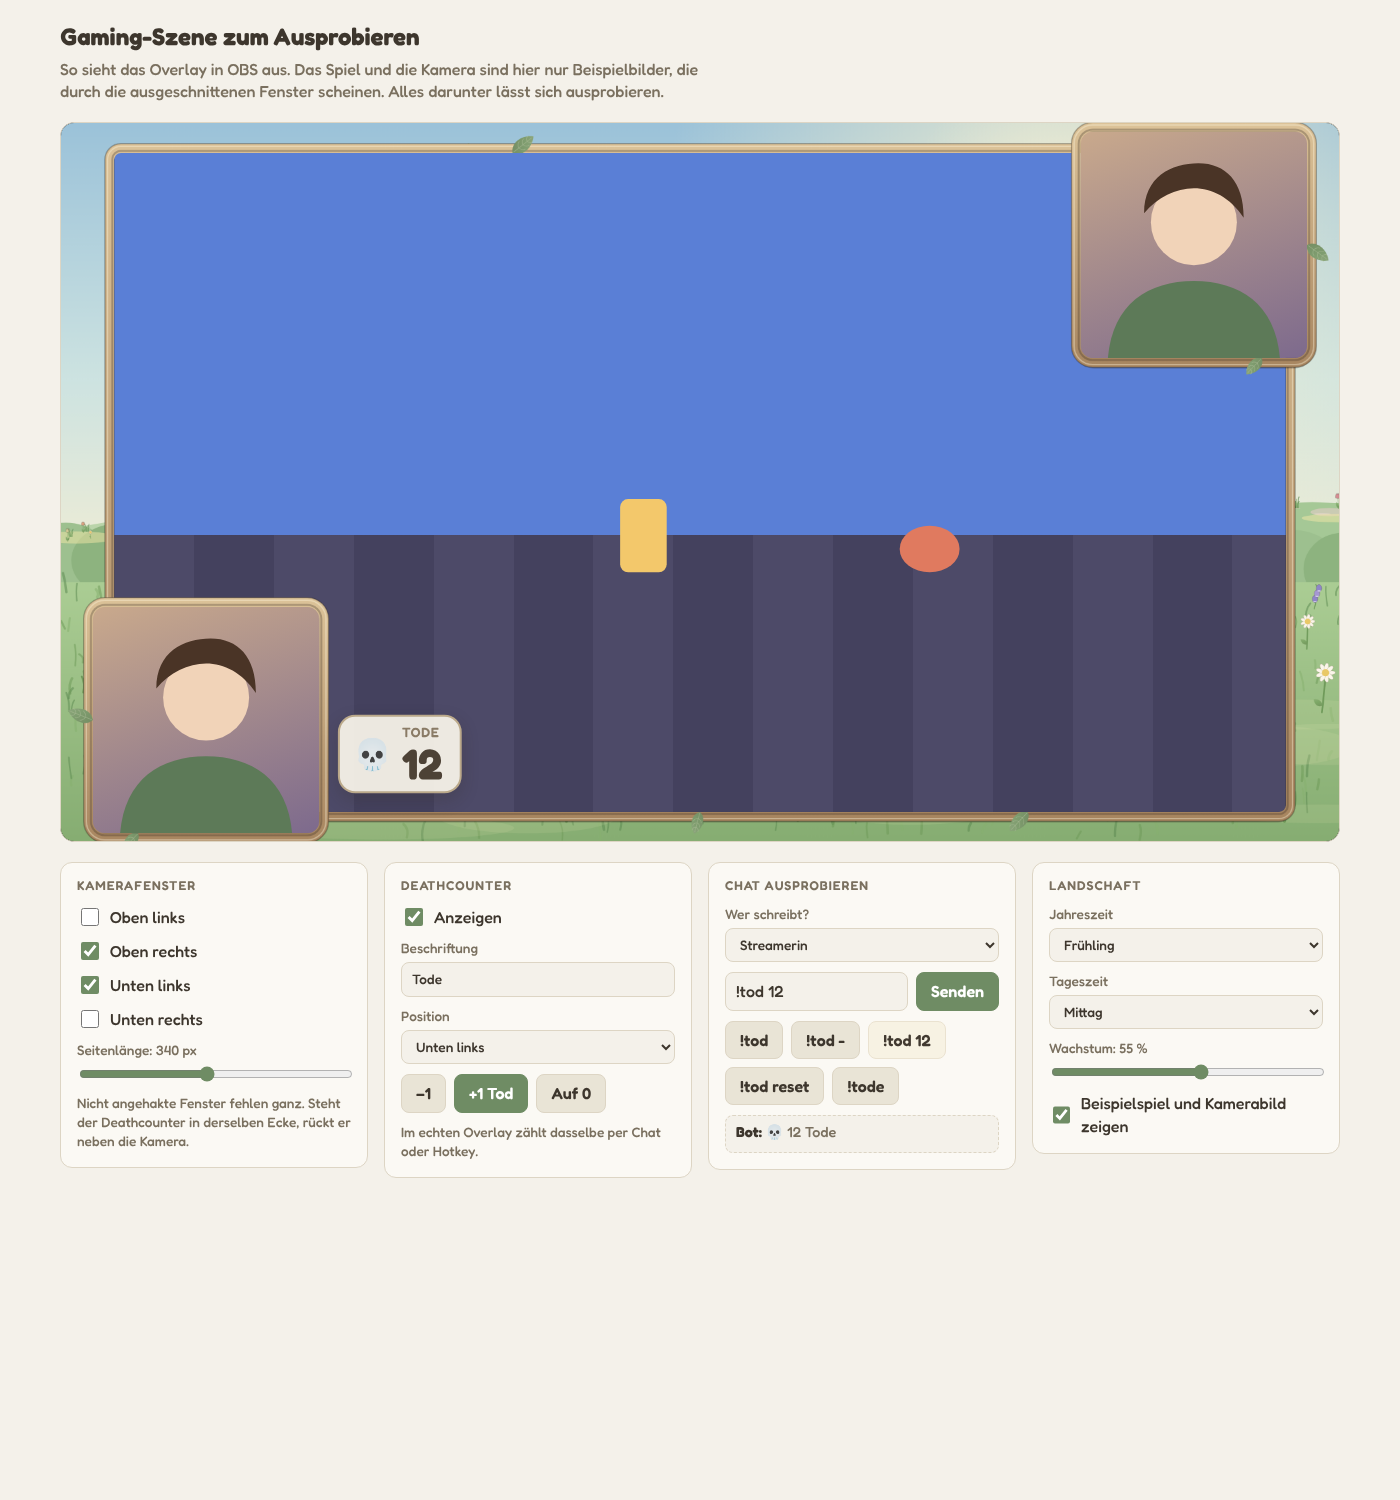
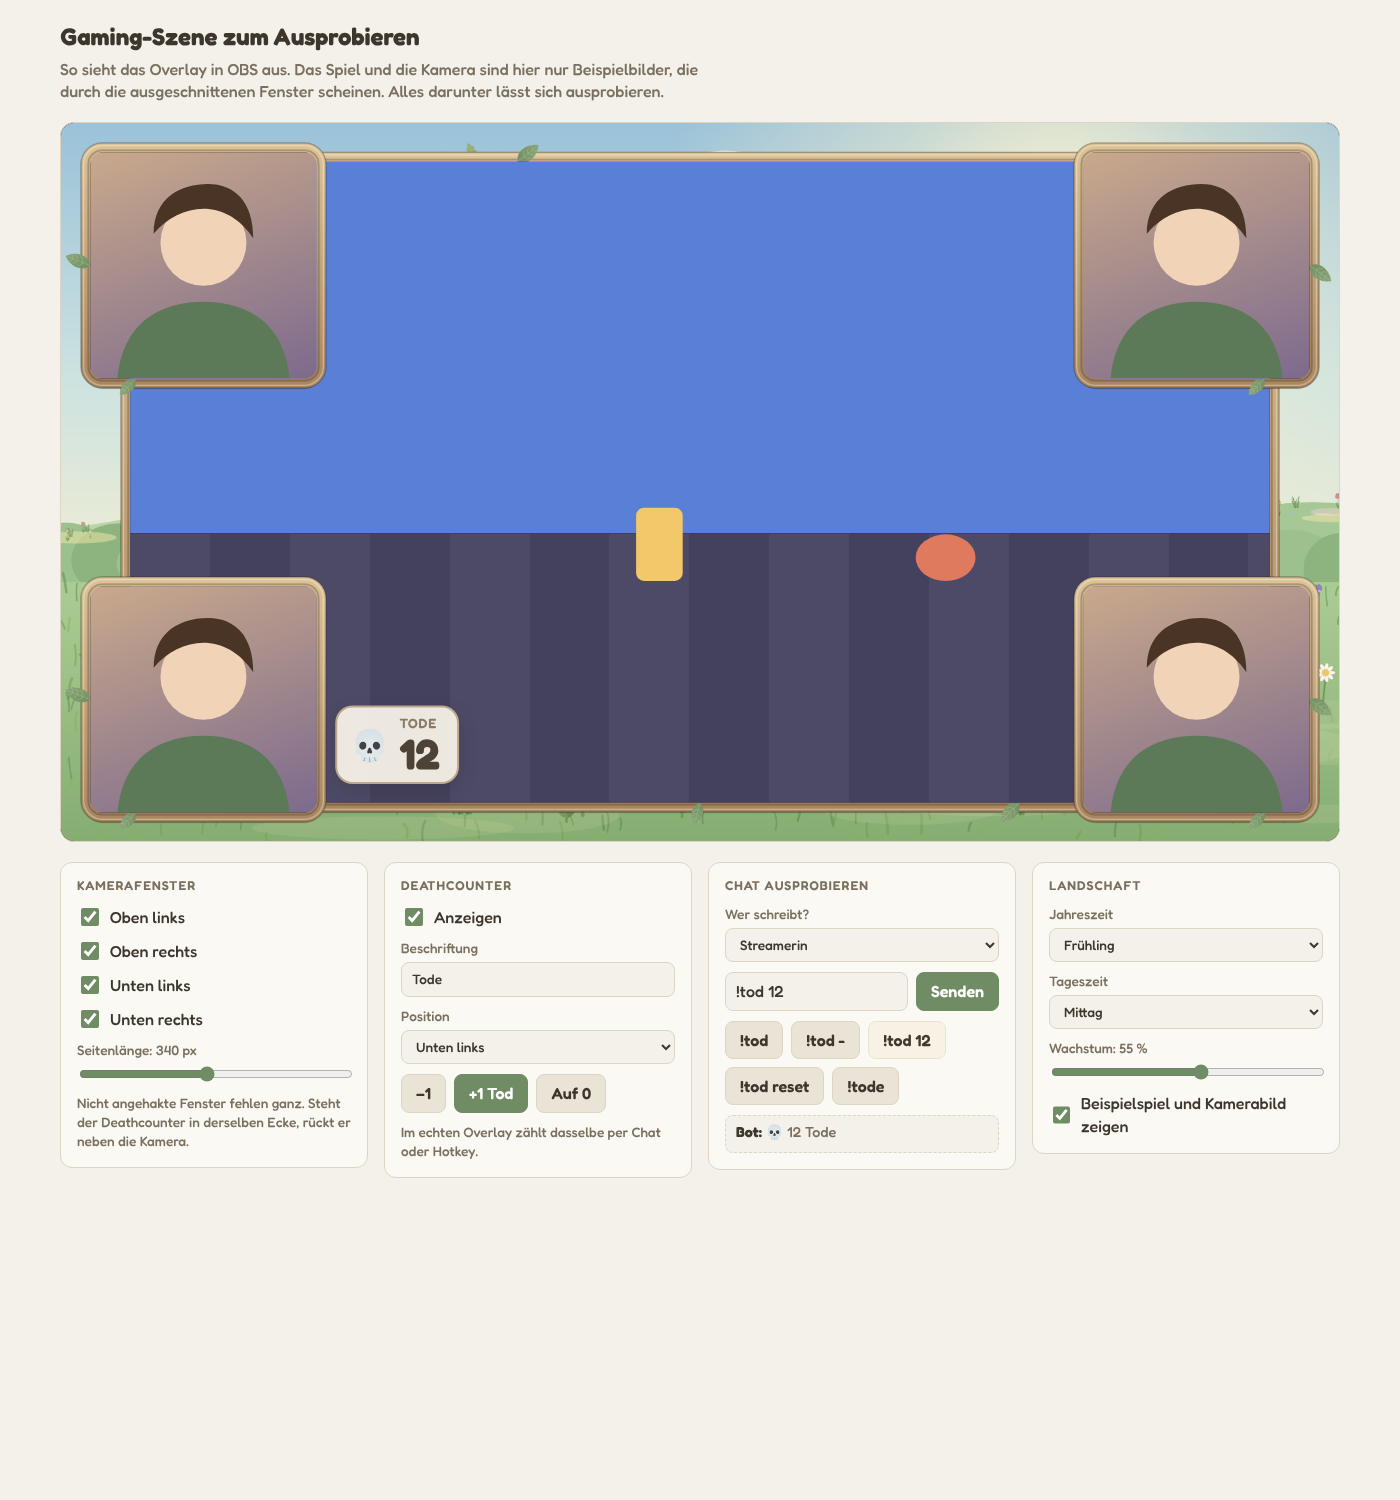
Gaming-Szene: fester Abstand zwischen Bildrand und Kamerabild
Claude-Session: https://claude.ai/code/session_01DH9G6H3KggKZELGACVq2sG

Changed region(s): [[0.0307, 0.0613, 0.9521, 0.5827], [0.645, 0.3373, 0.7064, 0.3987], [0.43, 0.3373, 0.4914, 0.3987]]

diff --git a/docs/gaming-demo.html b/docs/gaming-demo.html
@@ -1200,15 +1200,15 @@ class Wachstum {
 
 
 const RAHMEN = 14; // Dicke des Holzrahmens (bewusst dünn)
-const SPIEL = { x: 80, y: 45, w: 1760, h: 990 }; // 1760 : 990 = 16 : 9 (schmaler Rand)
+const SPIEL = { x: 104, y: 58, w: 1712, h: 963 }; // 1712 : 963 = 16 : 9 (schmaler Rand)
 const KAMERA = 340; // Seitenlänge des Kamerabilds (1:1)
-const UEBER = 32; // so weit ragt das Kamerafenster über die Ecke des Spielrahmens hinaus
+const ABSTAND = 44; // Abstand zwischen Bildrand und Kamerabild (der Holzrahmen liegt darin, 30 px bis zum Rahmen)
 const ECKEN = ['oben-links', 'oben-rechts', 'unten-links', 'unten-rechts'];
 const TODE_POS = ['oben-links', 'oben-mitte', 'oben-rechts', 'unten-links', 'unten-mitte', 'unten-rechts'];
 
 function kameraRect(ecke, size = KAMERA) {
   const links = ecke.endsWith('links'), oben = ecke.startsWith('oben');
-  return { x: links ? SPIEL.x - UEBER : SPIEL.x + SPIEL.w - size + UEBER, y: oben ? SPIEL.y - UEBER : SPIEL.y + SPIEL.h - size + UEBER, w: size, h: size };
+  return { x: links ? ABSTAND : 1920 - ABSTAND - size, y: oben ? ABSTAND : 1080 - ABSTAND - size, w: size, h: size };
 }
 
 // Liest "oben-rechts,unten-links" oder "aus" (Adressparameter). Ohne Angabe: oben-rechts.

diff --git a/README.md b/README.md
@@ -44,7 +44,7 @@ Die **Tageszeit** (Morgengrauen, Mittag, Abend mit Mond, Sternen und Glühwürmc
 
 **Kamerafenster (1:1).** Ein quadratischer Rahmen mit durchsichtigem Ausschnitt. **In OBS die Kamera unter das Overlay legen**, dann schaut sie durch das Fenster. Position und Seitenlänge stellst du in der Anordnung ein.
 
-**Gaming-Szene (`/gaming`).** Ein zweites Overlay für Gaming-Streams, als eigene Browser-Quelle (1920×1080) in OBS. Die Landschaft (Jahres- und Tageszeit wie im Admin) bildet einen schmalen Rand um das **Spielfenster im 16:9-Format** (1760×990) mit dünnem Holzrahmen. Bis zu vier **quadratische Kamerafenster** ragen über die Ecken des Spielrahmens. In OBS liegt die Spielaufnahme ganz unten, **darüber die Kamera**, beide unter dem Overlay. Kamerafenster (je Ecke an/aus), Kameragröße und Deathcounter stellst du im Admin unter *Einstellungen → Gaming-Szene* ein. Zum Ausprobieren gehen auch Adressparameter: `?kamera=oben-links,unten-rechts` (oder `aus`), `&groesse=340`, `?platzhalter=1` zeigt die Fenster, `?demo=1` Beispieldaten ohne Bot. Eine klickbare Vorschau ohne OBS ist `docs/gaming-demo.html` (neu erzeugen: `node scripts/build-gaming-demo.mjs`).
+**Gaming-Szene (`/gaming`).** Ein zweites Overlay für Gaming-Streams, als eigene Browser-Quelle (1920×1080) in OBS. Die Landschaft (Jahres- und Tageszeit wie im Admin) bildet einen schmalen Rand um das **Spielfenster im 16:9-Format** (1712×963) mit dünnem Holzrahmen. Bis zu vier **quadratische Kamerafenster** sitzen in den Ecken mit etwas Abstand zum Bildrand und überlappen den Spielrahmen. In OBS liegt die Spielaufnahme ganz unten, **darüber die Kamera**, beide unter dem Overlay. Kamerafenster (je Ecke an/aus), Kameragröße und Deathcounter stellst du im Admin unter *Einstellungen → Gaming-Szene* ein. Zum Ausprobieren gehen auch Adressparameter: `?kamera=oben-links,unten-rechts` (oder `aus`), `&groesse=340`, `?platzhalter=1` zeigt die Fenster, `?demo=1` Beispieldaten ohne Bot. Eine klickbare Vorschau ohne OBS ist `docs/gaming-demo.html` (neu erzeugen: `node scripts/build-gaming-demo.mjs`).
 
 **Deathcounter.** Optional (*Einstellungen → Gaming-Szene → Deathcounter anzeigen*), im Stil der anderen Karten: Totenkopf, Beschriftung und Zahl, mit kleiner Animation bei jeder Änderung. Position wählbar (sechs Plätze im Spielfenster, steht dort eine Kamera, rückt die Karte daneben). Die Zahl bleibt über Streams hinweg, bis du sie zurücksetzt. Steuerung:
 - **Chat** (Moderation und Streamerin): `!tod` = +1, `!tod -` = −1, `!tod 12` = auf 12 setzen, `!tod reset` = auf 0 (nur Streamerin). Alle sehen mit `!tode` den Stand. Der Bot antwortet mit dem Text aus den Einstellungen (`{n}`, `{label}`), das Antworten bei jeder Änderung lässt sich abschalten.
